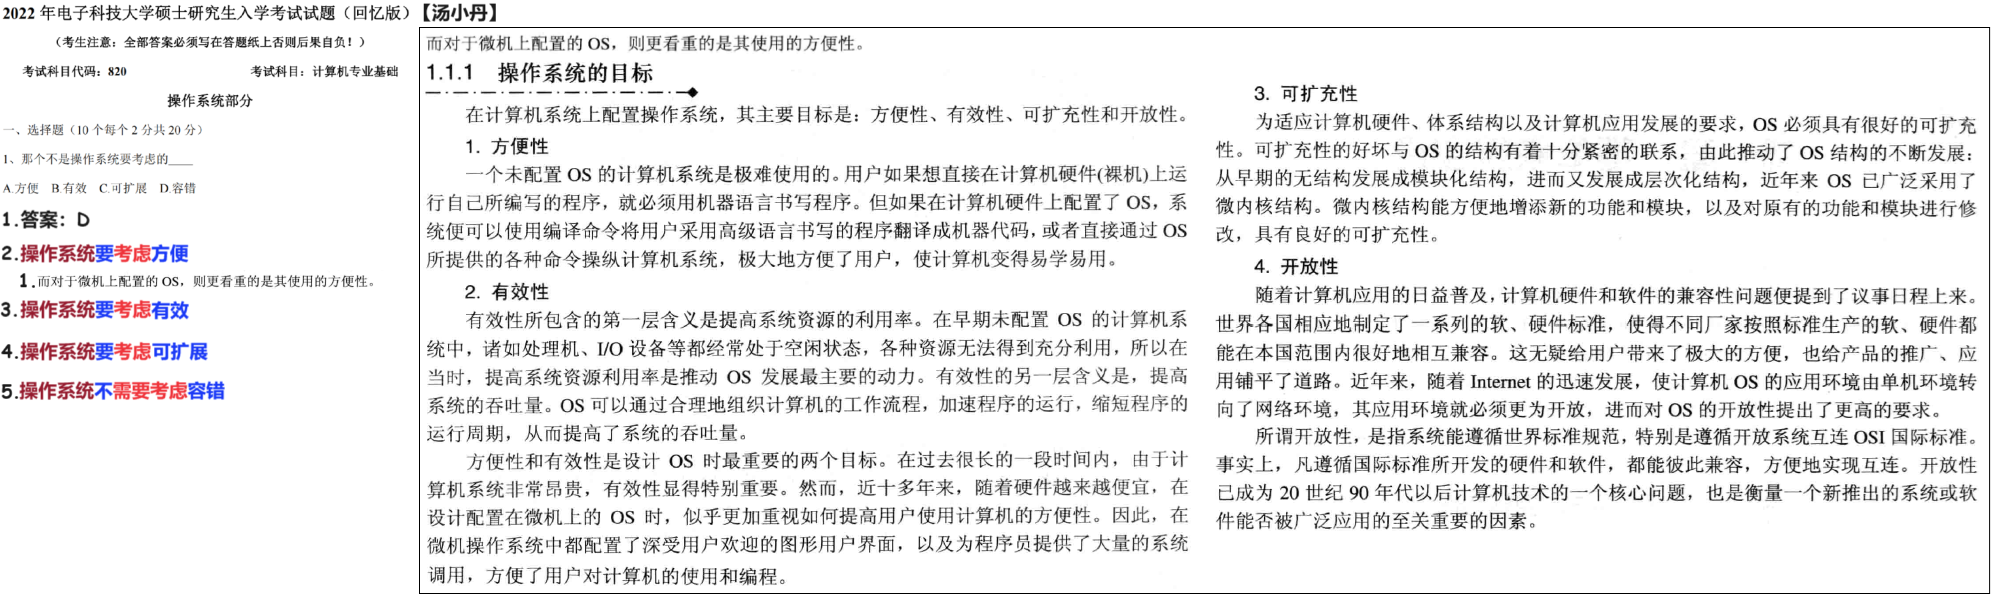
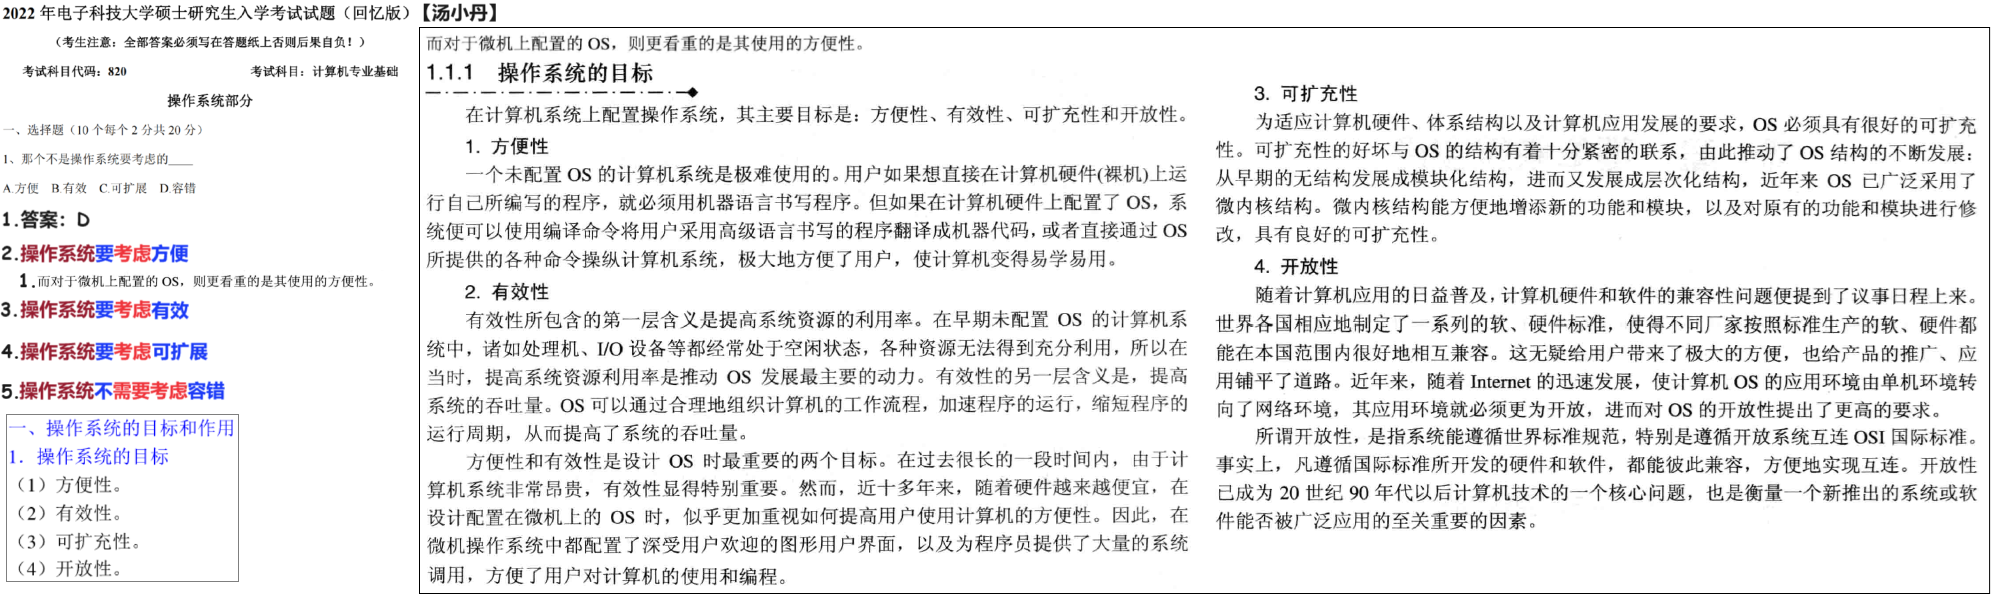
240428

diff --git a/01 初试/01 OS/01 题集/01 820/05 22 2/01 选择题 2/01 选择题1 操作系统 240427/02 Doc.md b/01 初试/01 OS/01 题集/01 820/05 22 2/01 选择题 2/01 选择题1 操作系统 240427/02 Doc.md
@@ -1,3 +1,9 @@
+# 00 背诵
+
+<img src="https://cvp.oss-cn-shanghai.aliyuncs.com/picgo/202404280724193.png" alt="image-20240428072408960" style="zoom:50%;" />
+
+
+
 # 01 题目
 
 <img src="https://cvp.oss-cn-shanghai.aliyuncs.com/picgo/202404271528197.png" alt="image-20240427152839017"  />
@@ -6,4 +12,4 @@
 
 # 02 解析
 
-<img src="https://cvp.oss-cn-shanghai.aliyuncs.com/picgo/202404271729263.png" alt="image-20240427172947739" style="zoom:50%;" />
+<img src="https://cvp.oss-cn-shanghai.aliyuncs.com/picgo/202404280724300.png" alt="image-20240428072456118" style="zoom:50%;" />
